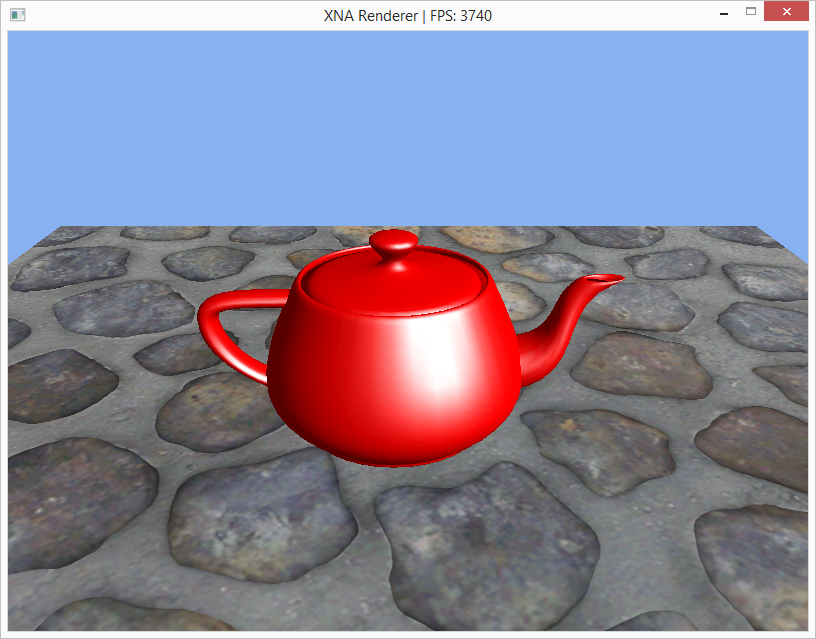
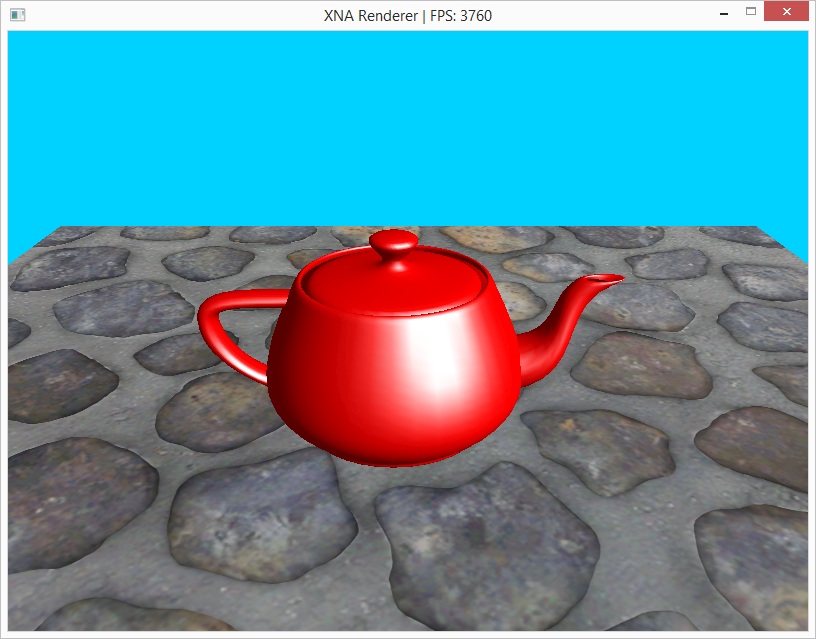
Fixed Background for 4.1
oopsydaisy

diff --git a/Framework/GraphicsPractical2/GraphicsPractical2/Game1.cs b/Framework/GraphicsPractical2/GraphicsPractical2/Game1.cs
@@ -200,7 +200,7 @@ namespace GraphicsPractical2
             GraphicsDevice.DepthStencilState = new DepthStencilState() { DepthBufferEnable = true  };
 
             // Draw the scene
-            GraphicsDevice.Clear(ClearOptions.Target | ClearOptions.DepthBuffer, Color.CornflowerBlue, 1.0f, 0);
+            GraphicsDevice.Clear(ClearOptions.Target | ClearOptions.DepthBuffer, Color.DeepSkyBlue, 1.0f, 0);
 
             // The Quad
             effect.Parameters["HasTexture"].SetValue(true);
